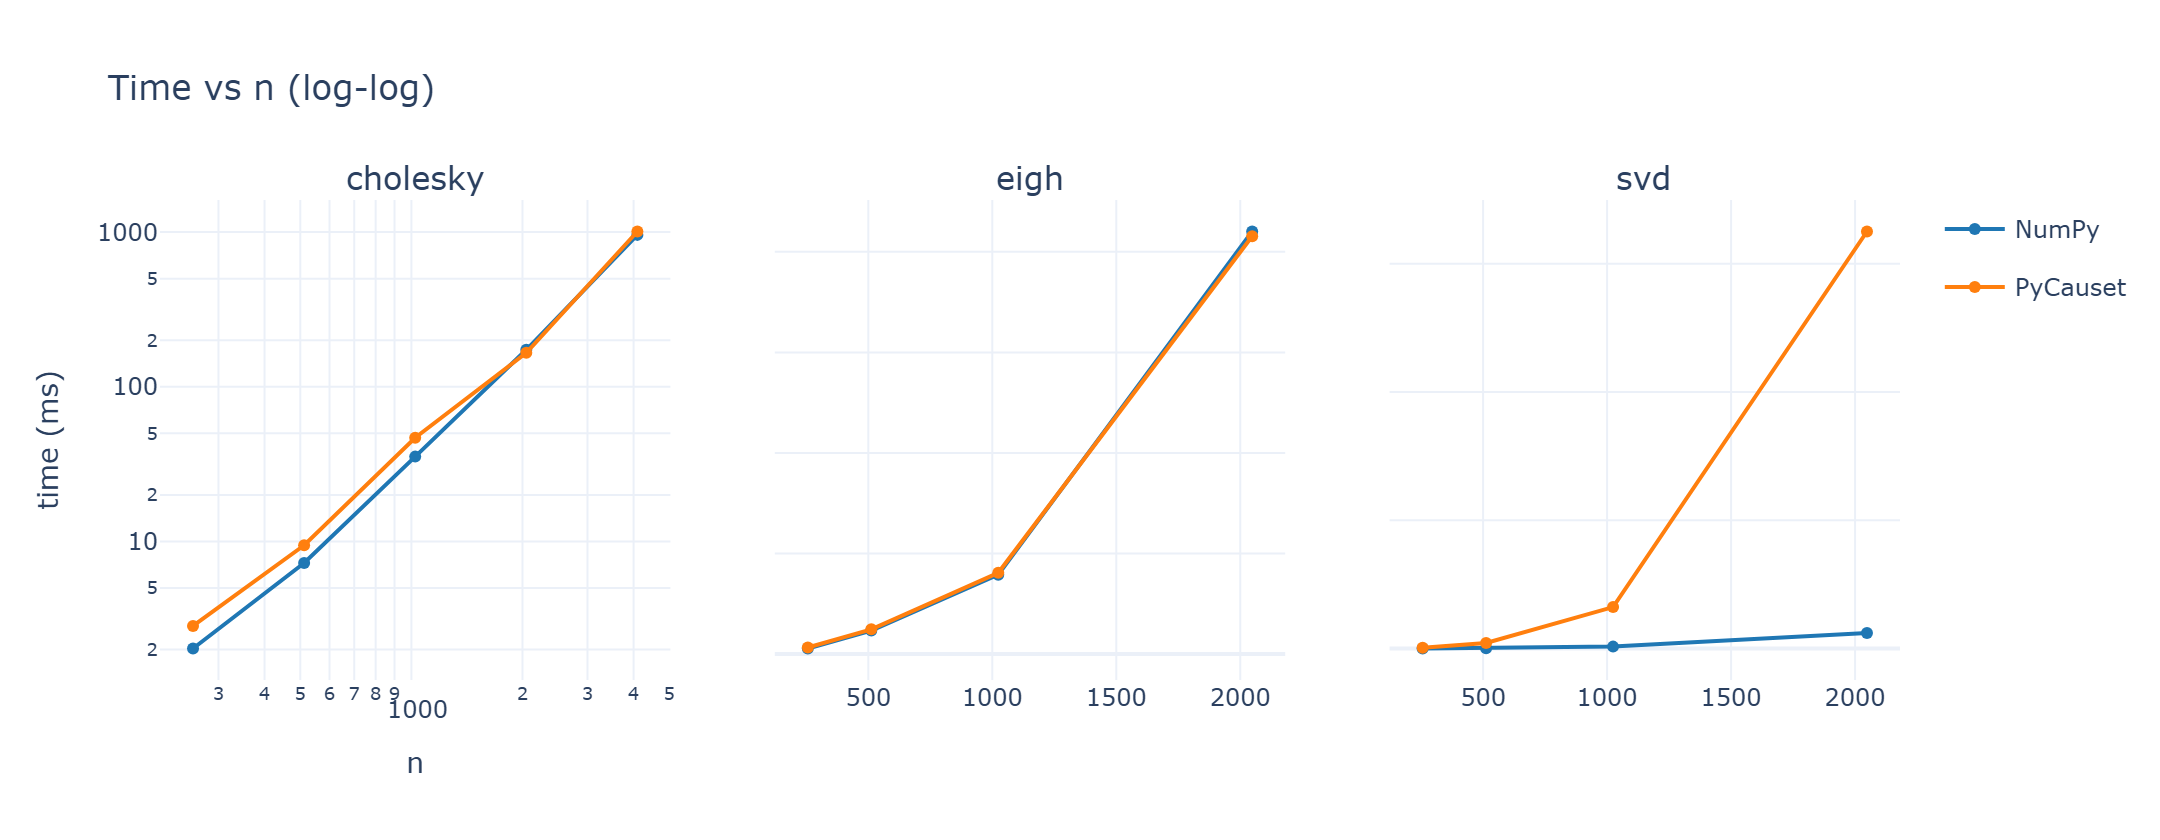
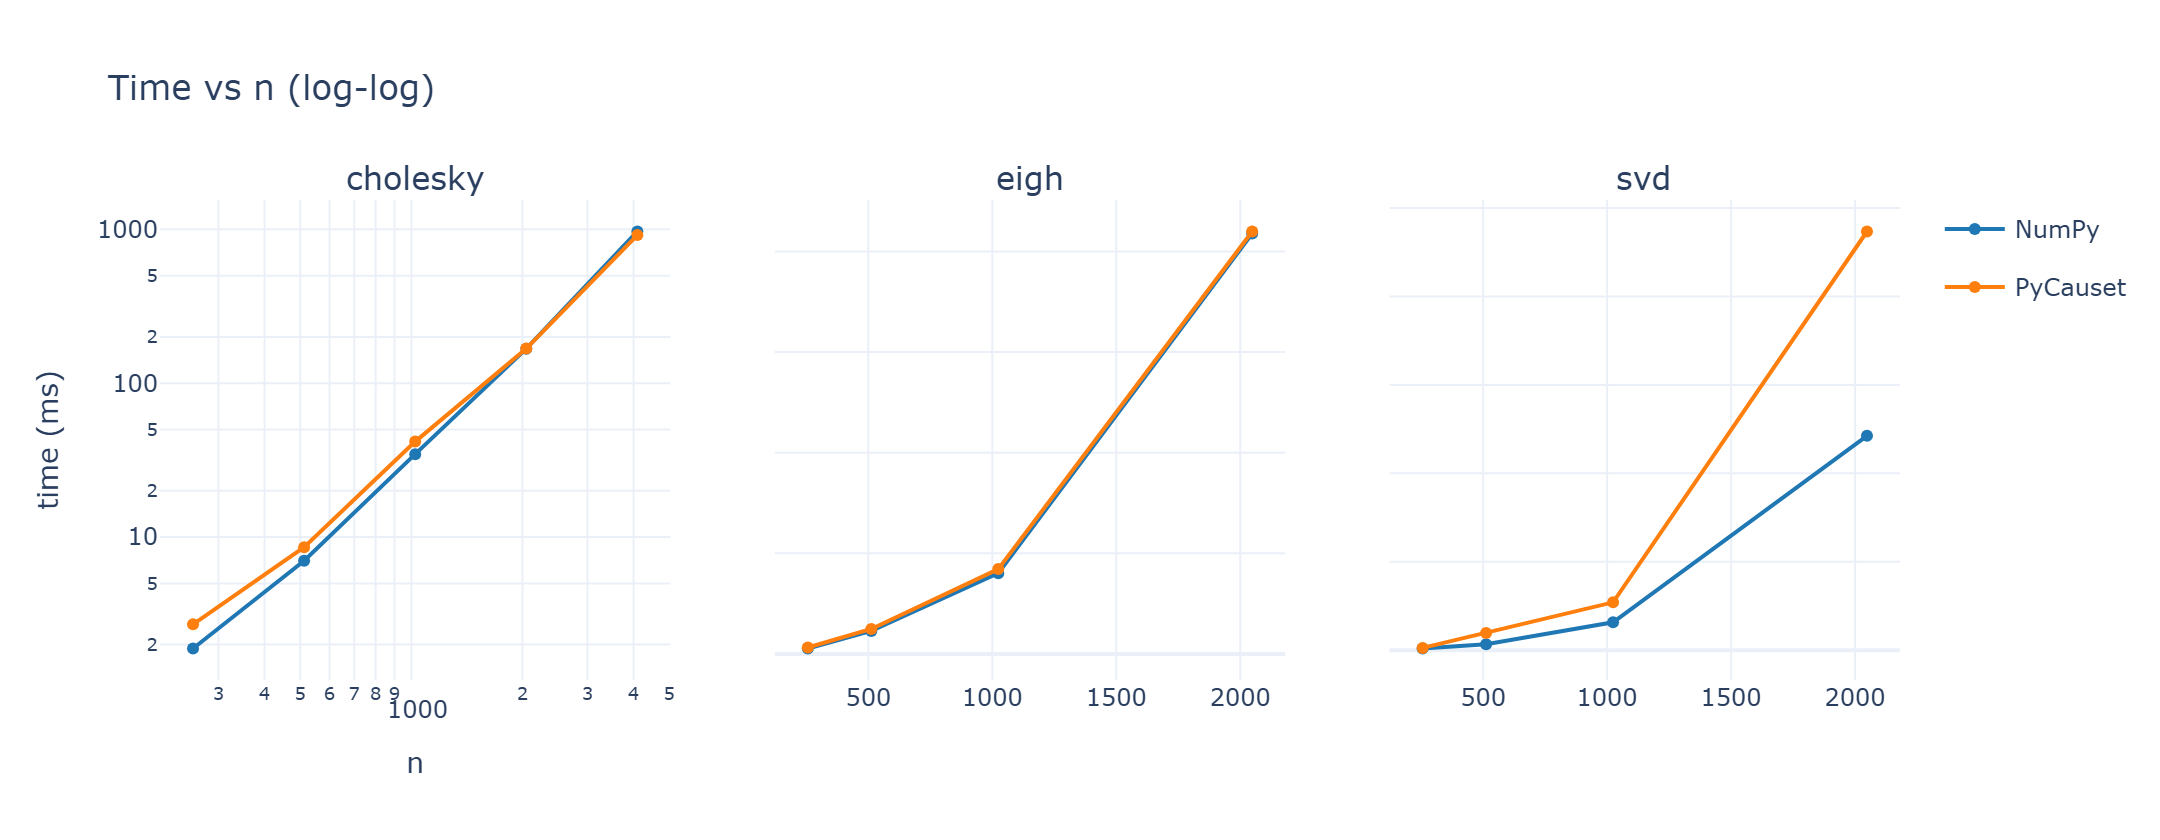
perf: switch SVD to dgesdd (divide-and-conquer), 20x to 2x speedup

diff --git a/src/compute/cpu/CpuSolver.cpp b/src/compute/cpu/CpuSolver.cpp
@@ -5323,9 +5323,13 @@ void CpuSolver::svd(const MatrixBase& in, MatrixBase& U, VectorBase& S, MatrixBa
     
     if (auto* in_d = dynamic_cast<const DenseMatrix<double>*>(&in)) {
          std::vector<double> a_buf(m * n);
-         for(size_t i=0; i<m; ++i) 
-             for(size_t j=0; j<n; ++j) 
-                 a_buf[i * n + j] = in_d->get(i, j);
+         if (!in_d->is_transposed() && !in_d->has_view_offset()) {
+             std::memcpy(a_buf.data(), in_d->data(), m * n * sizeof(double));
+         } else {
+             for(size_t i=0; i<m; ++i)
+                 for(size_t j=0; j<n; ++j)
+                     a_buf[i * n + j] = in_d->get(i, j);
+         }
                  
          // Output buffers
          auto* u_d = dynamic_cast<DenseMatrix<double>*>(&U);
@@ -5339,22 +5343,17 @@ void CpuSolver::svd(const MatrixBase& in, MatrixBase& U, VectorBase& S, MatrixBa
          
          uint64_t k = std::min(m, n);
          std::vector<double> s_vec(k);
-         std::vector<double> superb(k-1); // Not used by us really, but needed for dgesvd? No, dgesvd returns S.
-         // Wait, dgesvd returns singular values in S array.
          
-         lapack_int info = LAPACKE_dgesvd(LAPACK_ROW_MAJOR, 'S', 'S', 
-             (lapack_int)m, (lapack_int)n, a_buf.data(), (lapack_int)n, 
-             s_vec.data(), 
-             u_d->data(), (lapack_int)k, // U is MxK, stored row major, LDA=K? No U is MxK. 
-             // IMPORTANT: LAPACK Row Major -> LDU is leading dimension (stride). For U (MxK), stride is K.
-             vt_d->data(), (lapack_int)n, // VT is KxN. Stride is N.
-             superb.data() // superb is 'work' array? NO. LAPACKE handles workspace.
-             // Wait, LAPACKE_dgesvd signature:
-             // int LAPACKE_dgesvd( int matrix_layout, char jobu, char jobvt, lapack_int m, lapack_int n, double* a, lapack_int lda, double* s, double* u, lapack_int ldu, double* vt, lapack_int ldvt, double* superb );
-         );
+         // dgesdd (divide-and-conquer) is far faster than dgesvd (QR-based) and is
+         // what NumPy uses by default.
+         lapack_int info = LAPACKE_dgesdd(LAPACK_ROW_MAJOR, 'S',
+             (lapack_int)m, (lapack_int)n, a_buf.data(), (lapack_int)n,
+             s_vec.data(),
+             u_d->data(), (lapack_int)k,
+             vt_d->data(), (lapack_int)n);
          
-         if (info > 0) throw std::runtime_error("dgesvd did not converge");
-         if (info < 0) throw std::runtime_error("dgesvd: illegal argument");
+         if (info > 0) throw std::runtime_error("dgesdd did not converge");
+         if (info < 0) throw std::runtime_error("dgesdd: illegal argument");
          
          // Copy S to VectorBase
          extract_vector(k, s_vec.data(), S);
@@ -5363,24 +5362,25 @@ void CpuSolver::svd(const MatrixBase& in, MatrixBase& U, VectorBase& S, MatrixBa
     
     if (auto* in_f = dynamic_cast<const DenseMatrix<float>*>(&in)) {
          std::vector<float> a_buf(m * n);
-         for(size_t i=0; i<m; ++i) for(size_t j=0; j<n; ++j) a_buf[i * n + j] = in_f->get(i, j);
+         if (!in_f->is_transposed() && !in_f->has_view_offset()) {
+             std::memcpy(a_buf.data(), in_f->data(), m * n * sizeof(float));
+         } else {
+             for(size_t i=0; i<m; ++i) for(size_t j=0; j<n; ++j) a_buf[i * n + j] = in_f->get(i, j);
+         }
          
          auto* u_f = dynamic_cast<DenseMatrix<float>*>(&U);
          auto* vt_f = dynamic_cast<DenseMatrix<float>*>(&VT);
          uint64_t k = std::min(m, n);
          std::vector<float> s_vec(k);
-         std::vector<float> superb(k-1);
          
-         lapack_int info = LAPACKE_sgesvd(LAPACK_ROW_MAJOR, 'S', 'S', 
-             (lapack_int)m, (lapack_int)n, a_buf.data(), (lapack_int)n, 
-             s_vec.data(), 
-             u_f->data(), (lapack_int)k, 
-             vt_f->data(), (lapack_int)n, 
-             superb.data()
-         );
+         lapack_int info = LAPACKE_sgesdd(LAPACK_ROW_MAJOR, 'S',
+             (lapack_int)m, (lapack_int)n, a_buf.data(), (lapack_int)n,
+             s_vec.data(),
+             u_f->data(), (lapack_int)k,
+             vt_f->data(), (lapack_int)n);
          
-         if (info > 0) throw std::runtime_error("sgesvd did not converge");
-         if (info < 0) throw std::runtime_error("sgesvd: illegal argument");
+         if (info > 0) throw std::runtime_error("sgesdd did not converge");
+         if (info < 0) throw std::runtime_error("sgesdd: illegal argument");
          
          extract_vector(k, s_vec.data(), S);
          return;

diff --git a/BENCHMARKS.md b/BENCHMARKS.md
@@ -69,14 +69,14 @@ fixed Python dispatch overhead.
 | cholesky | 1024 | 35.4ms | 46.8ms | 0.75x |
 | cholesky | 2048 | 173.5ms | 165.9ms | **1.05x** |
 | cholesky | 4096 | 959.5ms | 1.01s | 0.95x |
-| svd | 256 | 19.2ms | 127.4ms | 0.15x |
-| svd | 512 | 67.3ms | 886.0ms | 0.08x |
-| svd | 1024 | 313.8ms | 6.47s | 0.05x |
-| svd | 2048 | 2.42s | 65.04s | 0.04x |
+| svd | 256 | 19.2ms | 25.7ms | 0.75x |
+| svd | 512 | 67.2ms | 193.3ms | 0.35x |
+| svd | 1024 | 315.6ms | 541.3ms | 0.58x |
+| svd | 2048 | 2.42s | 4.74s | 0.51x |
 
-Inverse, solve, and Cholesky are competitive (0.7x to 1.05x). SVD is the clear outlier:
-PyCauset's SVD path does not yet use LAPACK efficiently and is 10x to 25x slower. This is
-the top priority for the post-R1 performance program.
+Inverse, solve, and Cholesky are competitive (0.7x to 1.05x). SVD now uses the same
+divide-and-conquer LAPACK routine (`gesdd`) as NumPy; the remaining roughly 2x gap is the
+row-major transpose overhead and is tracked for the post-R1 program.
 
 ## Dense float64 eigenvalues
 
@@ -112,5 +112,6 @@ through lazy-expression materialization and are tracked for the post-R1 program.
 
 - **Matmul, eigenvalues, and Cholesky** match or beat NumPy at large sizes.
 - **Inverse and solve** are competitive, within 25% of NumPy.
-- **SVD, elementwise, and dot** are the known gaps, and are the concrete targets for the
-  post-R1 "greater than 0.90x NumPy" program (tracked in `TODO.md`).
+- **SVD** is roughly 2x slower (down from 25x after switching to `gesdd`); the row-major
+  overhead, elementwise, and dot are the concrete targets for the post-R1
+  "greater than 0.90x NumPy" program (tracked in `TODO.md`).

diff --git a/README.md b/README.md
@@ -88,9 +88,9 @@ PyCauset's dense kernels use the same OpenBLAS/LAPACK backend as NumPy, so the g
 | inverse | 0.86x (n=256) | 0.77x (n=4096) | competitive |
 | solve | 0.54x (n=256) | 0.81x (n=4096) | competitive |
 | elementwise add | 0.56x (n=1024) | 0.57x (n=8192) | known gap |
-| svd | 0.15x (n=256) | 0.04x (n=2048) | known gap |
+| svd | 0.75x (n=256) | 0.51x (n=2048) | ~2x, row-major overhead |
 
-Small n carries fixed Python dispatch overhead that amortizes as the matrix grows. SVD and elementwise are the top targets for the post-R1 ">= 0.90x NumPy" program. Full reproducible numbers and graphs: [BENCHMARKS.md](BENCHMARKS.md).
+Small n carries fixed Python dispatch overhead that amortizes as the matrix grows. Elementwise, dot, and the remaining SVD row-major overhead are the top targets for the post-R1 ">= 0.90x NumPy" program. Full reproducible numbers and graphs: [BENCHMARKS.md](BENCHMARKS.md).
 
 ## Gallery
 
